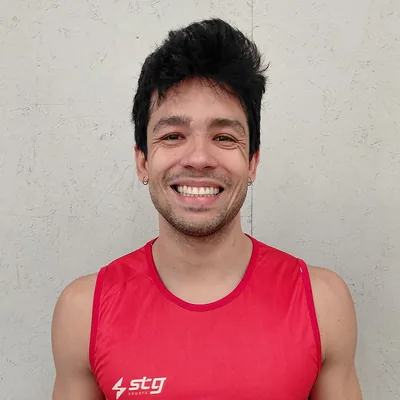
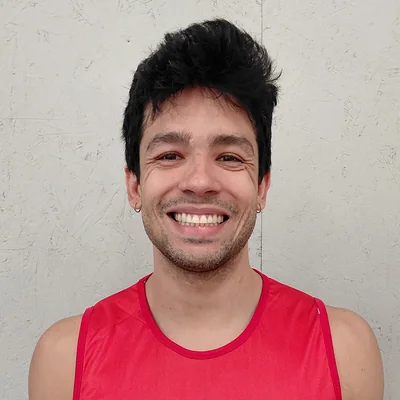
Update team player photos

diff --git a/times/uptown-rj.html b/times/uptown-rj.html
@@ -463,7 +463,7 @@
                 </div>
                 <div class="team-photo">
                     <span>Em breve</span>
-                    <img src="../media/uptown-rj/foto-time.jpg" alt="Foto do time Uptown RJ" onerror="this.parentElement.classList.add('is-empty');">
+                    <img src="../media/uptown-rj/foto-time.webp" alt="Foto do time Uptown RJ" onerror="this.parentElement.classList.add('is-empty');">
                 </div>
             </div>
         </div>
@@ -481,7 +481,7 @@
             <h2>Elenco</h2>
             <div class="roster-grid">
                 <article class="player-card">
-                    <div class="player-photo"><span class="profile-icon" aria-hidden="true"></span><img src="../media/uptown-rj/vinicius.jpg" alt="Vinícius" onerror="this.classList.add('is-missing');"></div>
+                    <div class="player-photo"><span class="profile-icon" aria-hidden="true"></span><img src="../media/uptown-rj/vinicius.webp" alt="Vinícius" onerror="this.classList.add('is-missing');"></div>
                     <div>
                         <div class="player-name">Vinícius</div>
                         <div class="player-position">Ala pivô</div>
@@ -489,7 +489,7 @@
                     </div>
                 </article>
                 <article class="player-card">
-                    <div class="player-photo"><span class="profile-icon" aria-hidden="true"></span><img src="../media/uptown-rj/caco.jpg" alt="Caco" onerror="this.classList.add('is-missing');"></div>
+                    <div class="player-photo"><span class="profile-icon" aria-hidden="true"></span><img src="../media/uptown-rj/caco.webp" alt="Caco" onerror="this.classList.add('is-missing');"></div>
                     <div>
                         <div class="player-name">Caco</div>
                         <div class="player-position">Ala</div>
@@ -497,7 +497,7 @@
                     </div>
                 </article>
                 <article class="player-card">
-                    <div class="player-photo"><span class="profile-icon" aria-hidden="true"></span><img src="../media/uptown-rj/guilherme.jpg" alt="Guilherme" onerror="this.classList.add('is-missing');"></div>
+                    <div class="player-photo"><span class="profile-icon" aria-hidden="true"></span><img src="../media/uptown-rj/guilherme.webp" alt="Guilherme" onerror="this.classList.add('is-missing');"></div>
                     <div>
                         <div class="player-name">Guilherme</div>
                         <div class="player-position">Ala</div>
@@ -505,7 +505,7 @@
                     </div>
                 </article>
                 <article class="player-card">
-                    <div class="player-photo"><span class="profile-icon" aria-hidden="true"></span><img src="../media/uptown-rj/denis.jpg" alt="Denis" onerror="this.classList.add('is-missing');"></div>
+                    <div class="player-photo"><span class="profile-icon" aria-hidden="true"></span><img src="../media/uptown-rj/denis.webp" alt="Denis" onerror="this.classList.add('is-missing');"></div>
                     <div>
                         <div class="player-name">Denis</div>
                         <div class="player-position">Ala</div>
@@ -513,7 +513,7 @@
                     </div>
                 </article>
                 <article class="player-card">
-                    <div class="player-photo"><span class="profile-icon" aria-hidden="true"></span><img src="../media/uptown-rj/romarinho.jpg" alt="Romarinho" onerror="this.classList.add('is-missing');"></div>
+                    <div class="player-photo"><span class="profile-icon" aria-hidden="true"></span><img src="../media/uptown-rj/romario.webp" alt="Romarinho" onerror="this.classList.add('is-missing');"></div>
                     <div>
                         <div class="player-name">Romarinho</div>
                         <div class="player-position">Armador</div>
@@ -521,7 +521,7 @@
                     </div>
                 </article>
                 <article class="player-card">
-                    <div class="player-photo"><span class="profile-icon" aria-hidden="true"></span><img src="../media/uptown-rj/rocha.jpg" alt="Rocha" onerror="this.classList.add('is-missing');"></div>
+                    <div class="player-photo"><span class="profile-icon" aria-hidden="true"></span><img src="../media/uptown-rj/bruno.webp" alt="Rocha" onerror="this.classList.add('is-missing');"></div>
                     <div>
                         <div class="player-name">Rocha</div>
                         <div class="player-position">Ala</div>
@@ -529,7 +529,7 @@
                     </div>
                 </article>
                 <article class="player-card">
-                    <div class="player-photo"><span class="profile-icon" aria-hidden="true"></span><img src="../media/uptown-rj/gabriel.jpg" alt="Gabriel" onerror="this.classList.add('is-missing');"></div>
+                    <div class="player-photo"><span class="profile-icon" aria-hidden="true"></span><img src="../media/uptown-rj/gabriel.webp" alt="Gabriel" onerror="this.classList.add('is-missing');"></div>
                     <div>
                         <div class="player-name">Gabriel</div>
                         <div class="player-position">Ala pivô</div>
@@ -537,7 +537,7 @@
                     </div>
                 </article>
                 <article class="player-card">
-                    <div class="player-photo"><span class="profile-icon" aria-hidden="true"></span><img src="../media/uptown-rj/igor.jpg" alt="Igor" onerror="this.classList.add('is-missing');"></div>
+                    <div class="player-photo"><span class="profile-icon" aria-hidden="true"></span><img src="../media/uptown-rj/igor.webp" alt="Igor" onerror="this.classList.add('is-missing');"></div>
                     <div>
                         <div class="player-name">Igor</div>
                         <div class="player-position">Armador</div>
@@ -545,9 +545,9 @@
                     </div>
                 </article>
                 <article class="player-card">
-                    <div class="player-photo"><span class="profile-icon" aria-hidden="true"></span><img src="../media/uptown-rj/fernando.jpg" alt="Fernando" onerror="this.classList.add('is-missing');"></div>
+                    <div class="player-photo"><span class="profile-icon" aria-hidden="true"></span><img src="../media/uptown-rj/magal.webp" alt="Magal" onerror="this.classList.add('is-missing');"></div>
                     <div>
-                        <div class="player-name">Fernando</div>
+                        <div class="player-name">Magal</div>
                         <div class="player-position">Ala</div>
                         <span class="player-number">#0</span>
                     </div>

diff --git a/times/zona-norte.html b/times/zona-norte.html
@@ -496,7 +496,9 @@
                     </div>
                 </article>
                 <article class="player-card">
-                    <div class="player-photo"><span class="profile-icon" aria-hidden="true"></span></div>
+                    <div class="player-photo">
+                        <img src="../media/zona-norte/robson.webp" alt="Robson">
+                    </div>
                     <div>
                         <div class="player-name">Robson</div>
                         <div class="player-position">Ala</div>
@@ -524,7 +526,9 @@
                     </div>
                 </article>
                 <article class="player-card">
-                    <div class="player-photo"><span class="profile-icon" aria-hidden="true"></span></div>
+                    <div class="player-photo">
+                        <img src="../media/zona-norte/rafael.webp" alt="Rafa Ricardo">
+                    </div>
                     <div>
                         <div class="player-name">Rafa Ricardo</div>
                         <div class="player-position">Ala</div>
